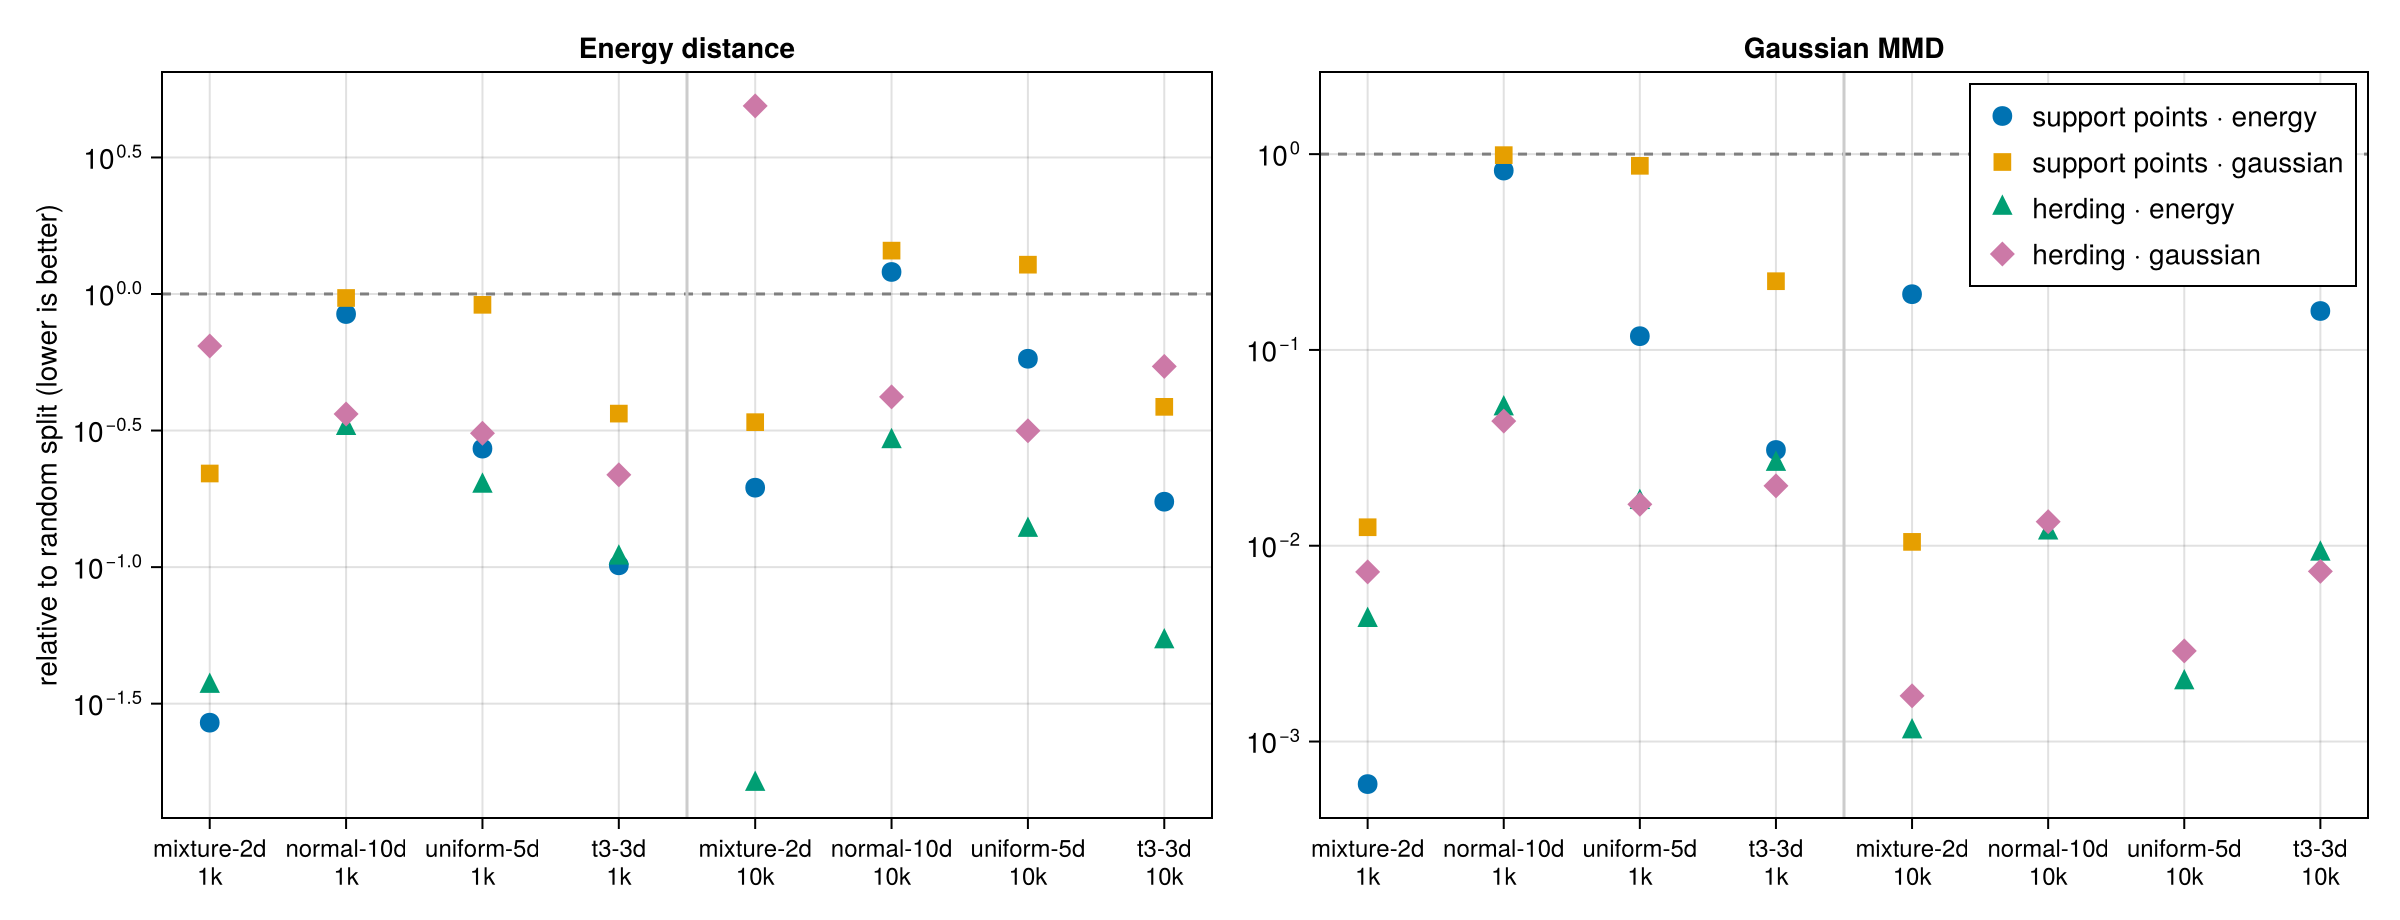
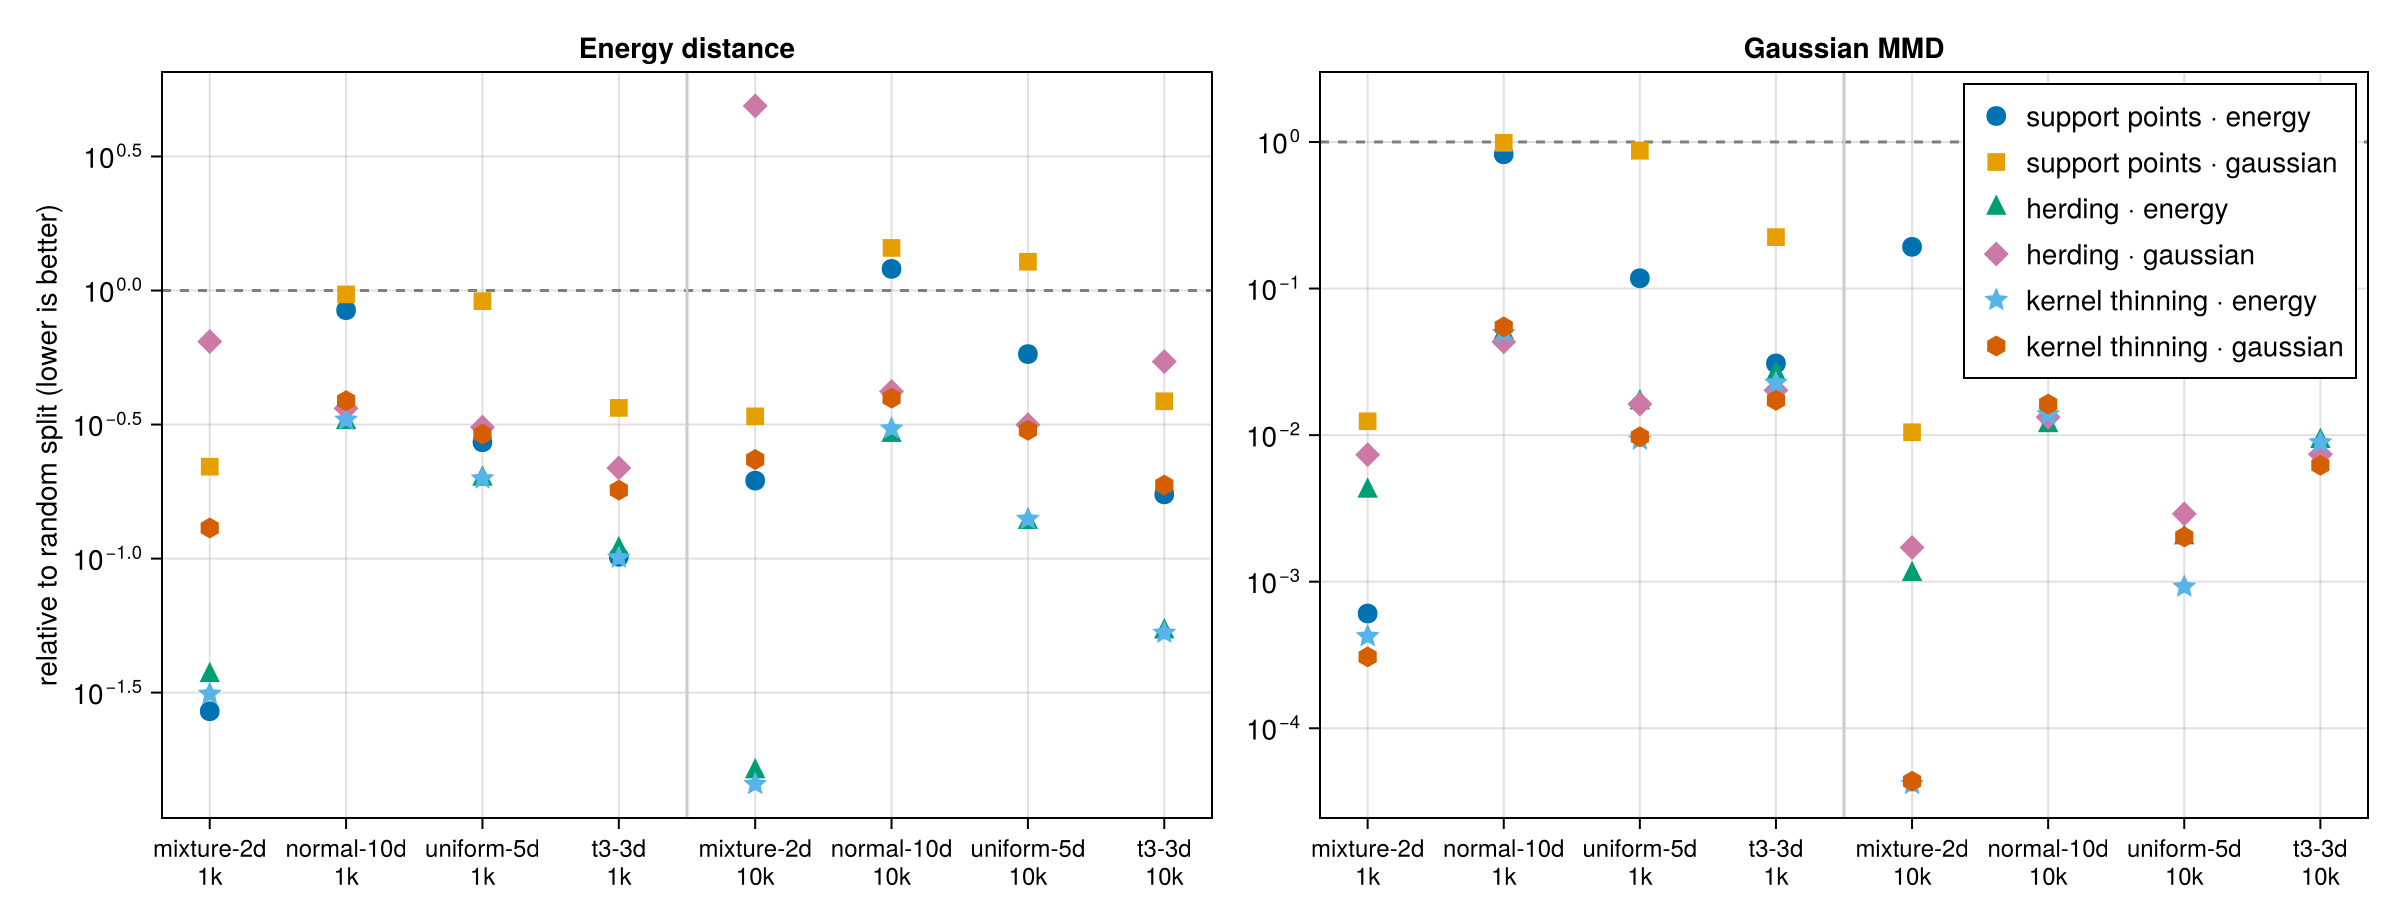
docs: Re-derive the benchmark story with kernel thinning

diff --git a/docs/src/20-benchmarks.md b/docs/src/20-benchmarks.md
@@ -1,29 +1,36 @@
 # [Benchmarks](@id benchmarks)
 
-**Use `herding · energy` by default.** On four synthetic datasets at
-N = 1,000 and 10,000 it has the lowest energy distance in 6 of 8 cases and
-is never far from the best. It also runs 30-100x faster than the
-support-point optimizer. Sections 1 and 2 are the evidence; section 3 is
+**Use `herding · energy` by default; use `kernel thinning` when MMD is the
+criterion.** On four synthetic datasets at N = 1,000 and 10,000
+`herding · energy` has the lowest energy distance in 4 of 8 cases and
+`kernel thinning · energy` in 3, and the two stay within 0.85-1.06x of each
+other everywhere; on Gaussian MMD kernel thinning wins 6 of 8. Herding is
+also the fastest optimized method in every cell, 26-100x faster than the
+support-point optimizer and 8.6-11x faster than kernel thinning at
+N = 10,000. Sections 1 and 2 are the evidence; section 3 is
 why support points fall behind. The setup is under
 [How it was run](@ref benchmarks-environment). Section 4 shows where
 `twinning` fits at N up to 10⁶.
 
-## 1. Quality: `herding · energy` is best or close to best
+## 1. Quality: `herding · energy` and `kernel thinning` share the wins
 
 ![Discrepancy relative to the random split](assets/benchmarks/quality.png)
 
 Each marker is one method on one (dataset, N) cell. The y axis is that
 method's discrepancy divided by the random split's, so 1 means no better
-than random and lower is better. Left: energy distance, the quantity
-`support points · energy` and `herding · energy` minimize. Right: Gaussian
-MMD, the quantity the two `gaussian` methods minimize.
+than random and lower is better. Left: energy distance, the quantity the
+three `energy` methods minimize. Right: Gaussian MMD, the quantity the
+three `gaussian` methods minimize.
 
-- `herding · energy` has the lowest energy distance in 6 of 8 cells. In the
-  other two (`mixture-2d` and `t3-3d` at N = 1,000) `support points · energy`
-  wins and herding is within 1.4x of it.
-- On MMD, herding is best in every cell at N = 10,000. At N = 1,000
-  `herding · gaussian` wins three datasets and `support points · energy`
-  wins `mixture-2d`.
+- `herding · energy` has the lowest energy distance in 4 of 8 cells and
+  `kernel thinning · energy` in 3; `support points · energy` takes the
+  remaining one (`mixture-2d` at N = 1,000). The two leaders are close
+  everywhere: `kernel thinning · energy` is between 0.85x and 1.06x of
+  `herding · energy` in every cell.
+- On MMD, kernel thinning wins 6 of 8 cells — the Gaussian kernel on
+  `mixture-2d` and `t3-3d` at N = 1,000 and `t3-3d` at N = 10,000, the
+  energy kernel on `uniform-5d` at both N and `mixture-2d` at N = 10,000.
+  Herding takes the two `normal-10d` cells.
 - `support points · gaussian` is no better than random on `normal-10d` and
   `uniform-5d` at either N, and `support points · energy` on `normal-10d`
   at N = 10,000. Section 3 explains why.
@@ -33,28 +40,32 @@ MMD, the quantity the two `gaussian` methods minimize.
 
 | dataset | N | lowest energy distance | lowest MMD |
 |---|---:|---|---|
-| mixture-2d | 1000 | support points · energy | support points · energy |
+| mixture-2d | 1000 | support points · energy | kernel thinning · gaussian |
 | normal-10d | 1000 | herding · energy | herding · gaussian |
-| uniform-5d | 1000 | herding · energy | herding · gaussian |
-| t3-3d | 1000 | support points · energy | herding · gaussian |
-| mixture-2d | 10000 | herding · energy | herding · energy |
+| uniform-5d | 1000 | herding · energy | kernel thinning · energy |
+| t3-3d | 1000 | kernel thinning · energy | kernel thinning · gaussian |
+| mixture-2d | 10000 | kernel thinning · energy | kernel thinning · energy |
 | normal-10d | 10000 | herding · energy | herding · energy |
-| uniform-5d | 10000 | herding · energy | herding · energy |
-| t3-3d | 10000 | herding · energy | herding · gaussian |
+| uniform-5d | 10000 | herding · energy | kernel thinning · energy |
+| t3-3d | 10000 | kernel thinning · energy | kernel thinning · gaussian |
 
 Every cell's fastest optimized method is `herding · energy`. All numbers:
 [`assets/benchmarks/results.md`](assets/benchmarks/results.md).
 
-## 2. Speed: 30-100x faster at N = 10,000
+## 2. Speed: herding is 26-100x faster than support points
 
 ![Wall time by method](assets/benchmarks/time.png)
 
 Wall time against N, log-log, JIT warm-up excluded; the random split is
 not shown because it does no work. At N = 10,000 `herding · energy` takes
-0.11-0.19 s and `herding · gaussian` 0.38-0.50 s. The two support-point
-methods take 3.4-8.7 s and 3.5-12.0 s, a 30-100x gap. Herding's cost is
-one `O(N²)` pass for the data term plus `O(nN)` for the selections, with no
-iterations, step sizes or `kappa` to tune.
+0.13-0.21 s and `herding · gaussian` 0.42-0.52 s; `kernel thinning · energy`
+takes 1.2-1.9 s and `kernel thinning · gaussian` 2.7-3.2 s. The two
+support-point methods take 3.6-8.9 s and 5.4-13.0 s, 26-100x the
+`herding · energy` time. Herding's cost is one `O(N²)` pass for the data
+term plus `O(nN)` for the selections, with no iterations, step sizes or
+`kappa` to tune. Kernel thinning is in the same class: the same `O(N²)`
+data-term pass, plus `O(L²)` kernel evaluations for the halvings and an
+`O(nN)` swap pass ([Kernel thinning](@ref kernel-thinning)).
 
 ## 3. Why support points fall behind on `normal-10d` and `uniform-5d`
 
@@ -81,8 +92,9 @@ directly and has no rounding step. Details: `benchmark/rounding.jl` and
 
 ![Test rows selected on the 2-D mixture](assets/benchmarks/selection.png)
 
-The 2-D mixture at N = 1,000 with each method's test rows overlaid. Herding
-and support points both spread the test rows over the four components in
+The 2-D mixture at N = 1,000, one panel per method: the six optimized
+methods and the random split. Herding, support points and kernel thinning
+all spread the test rows over the four components in
 proportion; the random split leaves gaps and clumps. `support points · energy`
 wins this cell, so the picture shows what a good selection looks like, not
 a difference between the families.
@@ -120,6 +132,8 @@ twinning's time at p = 768.
 | support points · gaussian | `SupportPointSplitter(GaussianKernel())` | `max_iterations = 200` | `max_iterations = 100` |
 | herding · energy | `HerdingSplitter(EnergyKernel())` | exact data term | exact data term |
 | herding · gaussian | `HerdingSplitter(GaussianKernel())` | exact data term | exact data term |
+| kernel thinning · energy | `KernelThinningSplitter(EnergyKernel())` | `delta = 0.5` | `delta = 0.5` |
+| kernel thinning · gaussian | `KernelThinningSplitter(GaussianKernel())` | `delta = 0.5` | `delta = 0.5` |
 | random | uniform random split | mean of 5 seeds | mean of 5 seeds |
 | twinning | `TwinningSplitter()` | `start = :farthest` | `start = :farthest` |
 

diff --git a/docs/src/assets/benchmarks/results.md b/docs/src/assets/benchmarks/results.md
@@ -1,42 +1,58 @@
 | dataset | N | method | energy distance | MMD (Gaussian, median σ) | seconds |
 |---|---:|---|---:|---:|---:|
-| mixture-2d | 1000 | support points · energy | 0.000323 | 1.57e-6 | 0.28 |
-| mixture-2d | 1000 | support points · gaussian | 0.00264 | 3.21e-5 | 0.18 |
-| mixture-2d | 1000 | herding · energy | 0.000439 | 1.08e-5 | 0.0014 |
-| mixture-2d | 1000 | herding · gaussian | 0.00772 | 1.9e-5 | 0.02 |
+| mixture-2d | 1000 | support points · energy | 0.000323 | 1.57e-6 | 0.41 |
+| mixture-2d | 1000 | support points · gaussian | 0.00264 | 3.21e-5 | 0.21 |
+| mixture-2d | 1000 | herding · energy | 0.000439 | 1.08e-5 | 0.0018 |
+| mixture-2d | 1000 | herding · gaussian | 0.00772 | 1.9e-5 | 0.064 |
+| mixture-2d | 1000 | kernel thinning · energy | 0.000374 | 1.1e-6 | 0.0058 |
+| mixture-2d | 1000 | kernel thinning · gaussian | 0.00156 | 7.92e-7 | 0.047 |
 | mixture-2d | 1000 | random | 0.012 | 0.00258 | – |
 | normal-10d | 1000 | support points · energy | 0.0215 | 0.00187 | 0.59 |
 | normal-10d | 1000 | support points · gaussian | 0.0247 | 0.00224 | 1.2 |
-| normal-10d | 1000 | herding · energy | 0.00822 | 0.000114 | 0.003 |
-| normal-10d | 1000 | herding · gaussian | 0.00927 | 9.82e-5 | 0.012 |
+| normal-10d | 1000 | herding · energy | 0.00822 | 0.000114 | 0.004 |
+| normal-10d | 1000 | herding · gaussian | 0.00927 | 9.82e-5 | 0.018 |
+| normal-10d | 1000 | kernel thinning · energy | 0.0084 | 0.000113 | 0.0082 |
+| normal-10d | 1000 | kernel thinning · gaussian | 0.0099 | 0.000124 | 0.043 |
 | normal-10d | 1000 | random | 0.0255 | 0.00227 | – |
-| uniform-5d | 1000 | support points · energy | 0.0047 | 0.000255 | 0.37 |
-| uniform-5d | 1000 | support points · gaussian | 0.0158 | 0.00189 | 0.28 |
+| uniform-5d | 1000 | support points · energy | 0.0047 | 0.000255 | 0.34 |
+| uniform-5d | 1000 | support points · gaussian | 0.0158 | 0.00189 | 0.27 |
 | uniform-5d | 1000 | herding · energy | 0.00343 | 3.62e-5 | 0.0021 |
-| uniform-5d | 1000 | herding · gaussian | 0.00535 | 3.54e-5 | 0.049 |
+| uniform-5d | 1000 | herding · gaussian | 0.00535 | 3.54e-5 | 0.015 |
+| uniform-5d | 1000 | kernel thinning · energy | 0.00344 | 2.02e-5 | 0.007 |
+| uniform-5d | 1000 | kernel thinning · gaussian | 0.00504 | 2.11e-5 | 0.037 |
 | uniform-5d | 1000 | random | 0.0173 | 0.00217 | – |
-| t3-3d | 1000 | support points · energy | 0.00163 | 0.000116 | 0.28 |
-| t3-3d | 1000 | support points · gaussian | 0.00586 | 0.000841 | 0.7 |
-| t3-3d | 1000 | herding · energy | 0.00174 | 9.8e-5 | 0.0012 |
-| t3-3d | 1000 | herding · gaussian | 0.0035 | 7.58e-5 | 0.062 |
+| t3-3d | 1000 | support points · energy | 0.00163 | 0.000116 | 0.42 |
+| t3-3d | 1000 | support points · gaussian | 0.00586 | 0.000841 | 0.88 |
+| t3-3d | 1000 | herding · energy | 0.00174 | 9.8e-5 | 0.0022 |
+| t3-3d | 1000 | herding · gaussian | 0.0035 | 7.58e-5 | 0.02 |
+| t3-3d | 1000 | kernel thinning · energy | 0.00162 | 8.52e-5 | 0.0047 |
+| t3-3d | 1000 | kernel thinning · gaussian | 0.00289 | 6.47e-5 | 0.034 |
 | t3-3d | 1000 | random | 0.0161 | 0.00375 | – |
-| mixture-2d | 10000 | support points · energy | 0.000173 | 3.2e-5 | 3.4 |
-| mixture-2d | 10000 | support points · gaussian | 0.0003 | 1.74e-6 | 3.5 |
-| mixture-2d | 10000 | herding · energy | 1.42e-5 | 1.87e-7 | 0.11 |
-| mixture-2d | 10000 | herding · gaussian | 0.00432 | 2.85e-7 | 0.38 |
+| mixture-2d | 10000 | support points · energy | 0.000173 | 3.2e-5 | 3.6 |
+| mixture-2d | 10000 | support points · gaussian | 0.0003 | 1.74e-6 | 5.4 |
+| mixture-2d | 10000 | herding · energy | 1.42e-5 | 1.87e-7 | 0.14 |
+| mixture-2d | 10000 | herding · gaussian | 0.00432 | 2.85e-7 | 0.44 |
+| mixture-2d | 10000 | kernel thinning · energy | 1.28e-5 | 6.92e-9 | 1.2 |
+| mixture-2d | 10000 | kernel thinning · gaussian | 0.000207 | 7.24e-9 | 3.2 |
 | mixture-2d | 10000 | random | 0.000885 | 0.000166 | – |
-| normal-10d | 10000 | support points · energy | 0.0025 | 0.000215 | 8.7 |
-| normal-10d | 10000 | support points · gaussian | 0.00299 | 0.000289 | 8.6 |
-| normal-10d | 10000 | herding · energy | 0.0006 | 1.91e-6 | 0.19 |
-| normal-10d | 10000 | herding · gaussian | 0.000873 | 2.17e-6 | 0.49 |
+| normal-10d | 10000 | support points · energy | 0.0025 | 0.000215 | 8.9 |
+| normal-10d | 10000 | support points · gaussian | 0.00299 | 0.000289 | 9.5 |
+| normal-10d | 10000 | herding · energy | 0.0006 | 1.91e-6 | 0.21 |
+| normal-10d | 10000 | herding · gaussian | 0.000873 | 2.17e-6 | 0.52 |
+| normal-10d | 10000 | kernel thinning · energy | 0.000634 | 2.27e-6 | 1.9 |
+| normal-10d | 10000 | kernel thinning · gaussian | 0.000824 | 2.67e-6 | 3.0 |
 | normal-10d | 10000 | random | 0.00208 | 0.000164 | – |
-| uniform-5d | 10000 | support points · energy | 0.000844 | 7.24e-5 | 5.8 |
-| uniform-5d | 10000 | support points · gaussian | 0.00187 | 0.000243 | 8.2 |
-| uniform-5d | 10000 | herding · energy | 0.000199 | 3.2e-7 | 0.16 |
-| uniform-5d | 10000 | herding · gaussian | 0.00046 | 4.64e-7 | 0.5 |
+| uniform-5d | 10000 | support points · energy | 0.000844 | 7.24e-5 | 5.9 |
+| uniform-5d | 10000 | support points · gaussian | 0.00187 | 0.000243 | 9.7 |
+| uniform-5d | 10000 | herding · energy | 0.000199 | 3.2e-7 | 0.14 |
+| uniform-5d | 10000 | herding · gaussian | 0.00046 | 4.64e-7 | 0.49 |
+| uniform-5d | 10000 | kernel thinning · energy | 0.000205 | 1.48e-7 | 1.5 |
+| uniform-5d | 10000 | kernel thinning · gaussian | 0.000439 | 3.23e-7 | 2.7 |
 | uniform-5d | 10000 | random | 0.00146 | 0.00016 | – |
-| t3-3d | 10000 | support points · energy | 0.000262 | 4.82e-5 | 3.7 |
-| t3-3d | 10000 | support points · gaussian | 0.000583 | 8.06e-5 | 12.0 |
-| t3-3d | 10000 | herding · energy | 8.06e-5 | 2.77e-6 | 0.12 |
-| t3-3d | 10000 | herding · gaussian | 0.00082 | 2.25e-6 | 0.38 |
+| t3-3d | 10000 | support points · energy | 0.000262 | 4.82e-5 | 4.3 |
+| t3-3d | 10000 | support points · gaussian | 0.000583 | 8.06e-5 | 13.0 |
+| t3-3d | 10000 | herding · energy | 8.06e-5 | 2.77e-6 | 0.13 |
+| t3-3d | 10000 | herding · gaussian | 0.00082 | 2.25e-6 | 0.42 |
+| t3-3d | 10000 | kernel thinning · energy | 7.97e-5 | 2.72e-6 | 1.4 |
+| t3-3d | 10000 | kernel thinning · gaussian | 0.000284 | 1.9e-6 | 2.7 |
 | t3-3d | 10000 | random | 0.00151 | 0.000305 | – |
